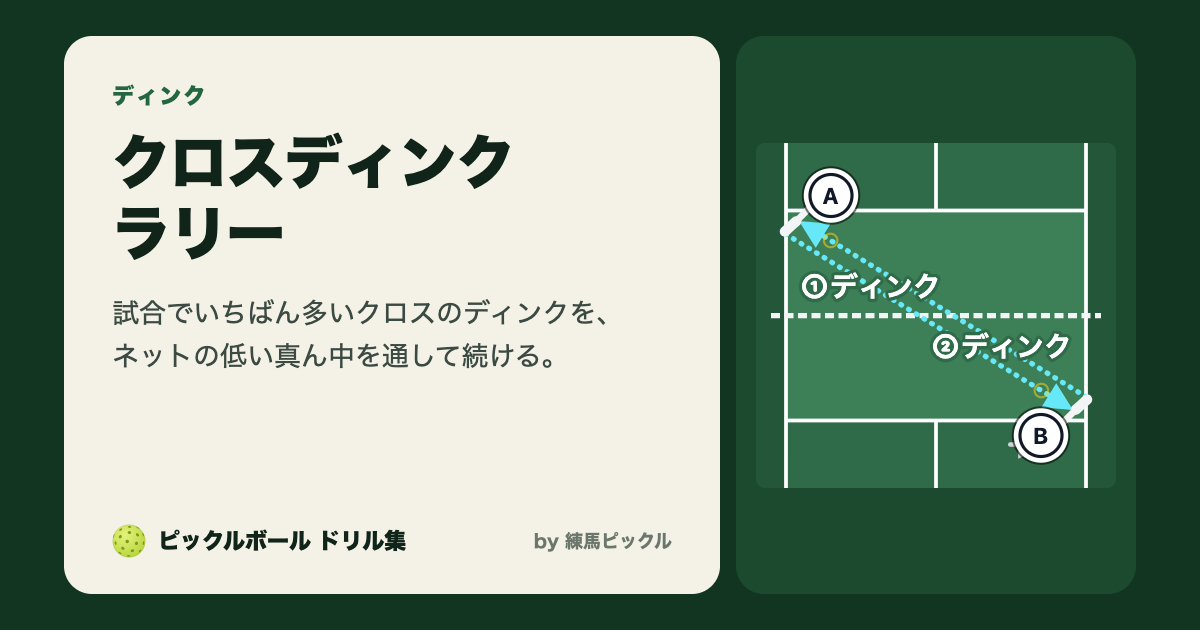
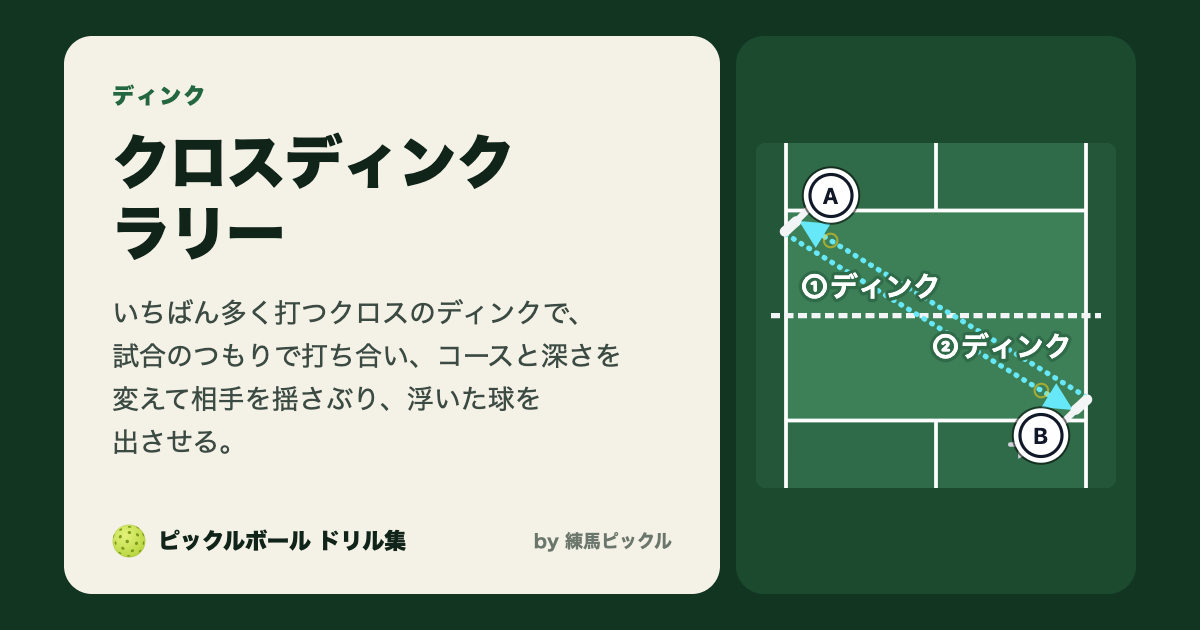
dnk003: game-like cross dink rally that moves the opponent; dnk009 notes it practises the cross attack on a half court
Claude-Session: https://claude.ai/code/session_013HpVCq95JLREtWQF64J4S6

Changed region(s): [[0.0925, 0.5429, 0.5242, 0.7238], [0.0925, 0.4524, 0.4933, 0.5127]]

diff --git a/src/content/docs/drills/dnk/dnk003.md b/src/content/docs/drills/dnk/dnk003.md
@@ -1,6 +1,6 @@
 ---
 title: クロスディンク ラリー
-description: 対角の相手とキッチンライン付近でクロスのディンクを打ち合う
+description: 対角の相手と試合のつもりでクロスのディンクを打ち合い、コースと深さを変えて相手に浮いた球を出させる
 sidebar:
   order: 4
 drill:
@@ -8,19 +8,22 @@ drill:
   category: dnk
   scene: 4人ともキッチンラインに並び、ディンクの打ち合いになっている。どちらかが浮いた球を出すと、相手に攻められる。
   purpose: ネットの低いところを通して相手のキッチンに落とし続け、相手が打てる高さの球を渡さない。相手が先に浮かせるまで待ち、浮いた球をこちらから攻める。
-  focus: 試合でいちばん多いクロスのディンクを、ネットの低い真ん中を通して続ける。
+  focus: いちばん多く打つクロスのディンクで、試合のつもりで打ち合い、コースと深さを変えて相手を揺さぶり、浮いた球を出させる。
   setup: 2人1組でクロス（対角）に入り、2人ともキッチンライン付近に立つ。2人とも、自分の半面の真ん中から少し相手の側に寄った位置（基本の位置）で待つ。1面で2組同時にできる。
   feed: どちらかがクロスにディンクを出して始める。
   steps:
     - 2人とも基本の位置で構える
     - 相手が打ったら、サイドステップで横に動いて球に合わせ、打ったらすぐに基本の位置へ戻る
     - 弾んだ球をディンクで対角の相手のキッチンに返す
-    - そのままラリーを続ける
+    - 返すたびに、コース（角度）と深さ（ネット際からキッチンラインの近くまで）を変え、相手の取りづらいところに落とす
+    - 相手の球が浮いたら、フリックやボレーで攻める。ときどきスピードアップも混ぜる。低い球は無理に打たずにディンクで返す
+    - 球が途切れたら、ディンクから始め直す
   points:
     - ネットの一番低い真ん中あたりを通す
     - 体の横ではなく、体の前（足の前）で打つ
     - パドルのヘッドを下げた形から打ち出す。ストロークのように後ろから振らない
     - 打ったら必ず基本の位置へ戻る。最初から端で待たない
+    - 同じところに続けて返さず、コースと深さを散らす
   diagram:
     players:
       - { id: A, at: far-leftOuter-kitchen, role: practice }
@@ -35,7 +38,7 @@ drill:
       - { from: B, to: near-rightInner-kitchen, type: move, n: 2 }
       - { from: A, to: far-leftOuter-kitchen, type: move, n: 2 }
   variants:
-    - { key: any, name: 自由, default: true, note: フォアでもバックでもよいのでディンク }
+    - { key: any, name: 自由, default: true, note: フォアでもバックでもよいので、コースと深さを変えてディンク }
     - { key: slice, name: スライス, note: スライスでディンク }
   builderDefault:
     min: 2

diff --git a/src/content/docs/drills/dnk/dnk009.md b/src/content/docs/drills/dnk/dnk009.md
@@ -9,7 +9,7 @@ drill:
   scene: 4人ともキッチンラインに並び、ディンクの打ち合いになっている。どちらかが浮いた球を出すと、相手に攻められる。
   purpose: ネットの低いところを通して相手のキッチンに落とし続け、相手が打てる高さの球を渡さない。相手が先に浮かせるまで待ち、浮いた球をこちらから攻める。
   focus: 攻めのディンクで足元を突かれたときに、斜め後ろへ下がって打てる間を作り、スライスで浮かせずに返す。
-  setup: 2人1組で、コートの縦半分（半面）で向かい合う。練習役はキッチンライン付近に立つ。球出し役は相手側のキッチンの中に入り、センターライン寄りに立つ。1面で2組同時にできる。
+  setup: 2人1組で、コートの縦半分（半面）で向かい合う。練習役はキッチンライン付近に立つ。球出し役は相手側のキッチンの中に入り、センターライン寄りに立つ。試合で受けるのはクロスから来る攻めのディンクだが、練習は半面で行う。1面で2組同時にできる。
   feed: 球出し役はキッチンの中から、上から投げ下ろすように、練習役の足元へ球を投げる。スマッシュやボレーのような強い球ではなく、攻めのディンクのように鋭い弧を描く球にする。
   steps:
     - 練習役はキッチンライン付近の基本の位置で構えて待つ
